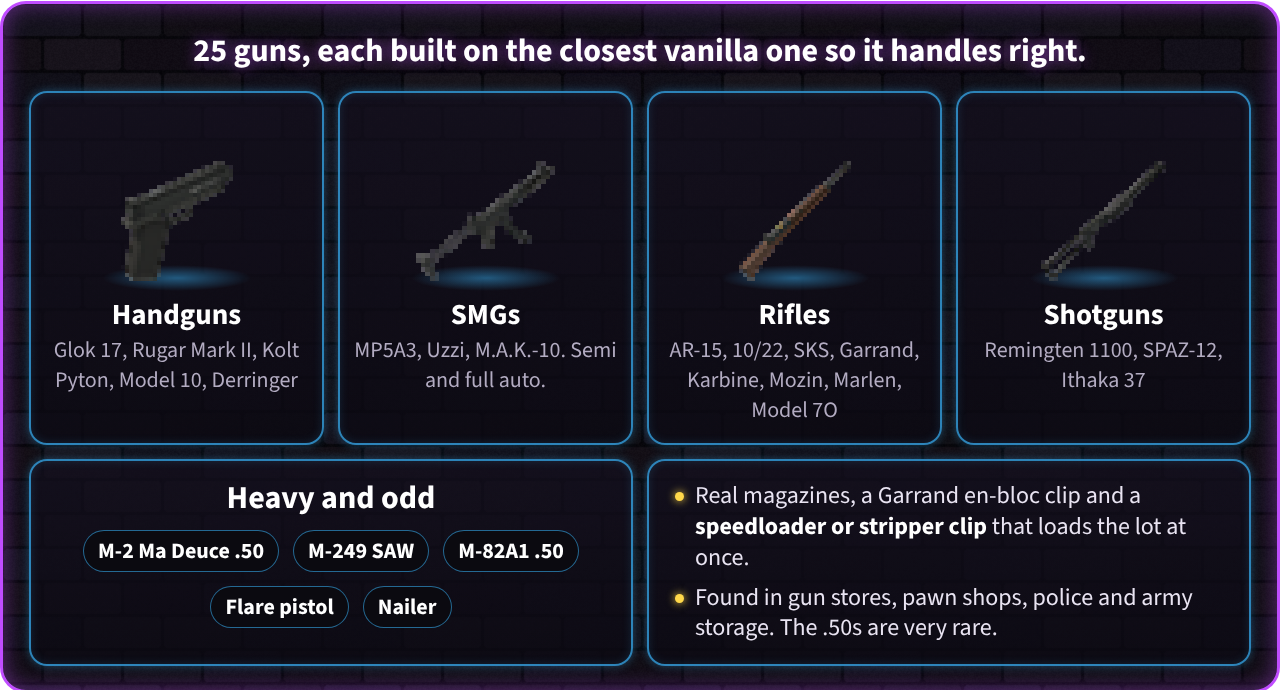
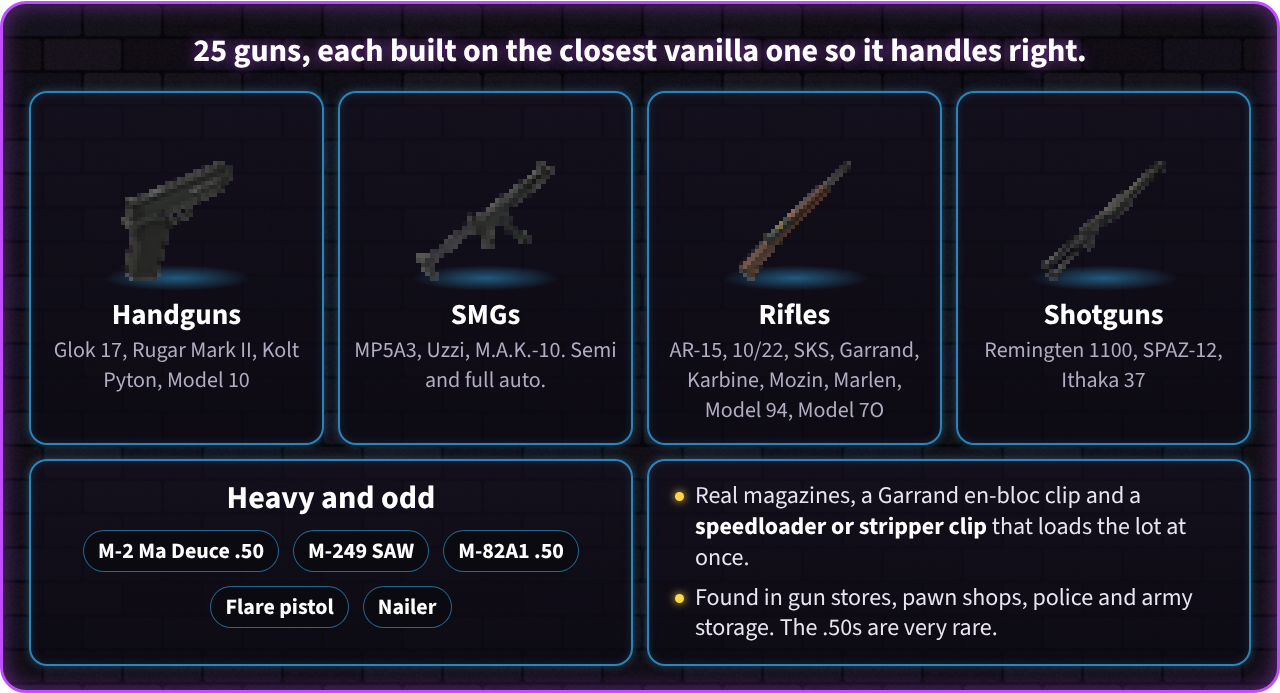
Armory page: new more.png panel, mg/reload/guns panels updated, description under 8000 bytes
Claude-Session: https://claude.ai/code/session_01VynD2Lr3XEXJcp5KXmu7gc

Changed region(s): [[0.0312, 0.9697, 0.9688, 1.0], [0.0312, 0.5152, 0.2188, 0.5758], [0.5312, 0.5758, 0.6875, 0.6061]]

diff --git a/Armory/page.html b/Armory/page.html
@@ -78,9 +78,9 @@
 <section class="shot panel" id="guns">
   <div class="ptitle">25 guns, each built on the closest vanilla one so it handles right.</div>
   <div class="grid cols-4">
-    <div class="card"><div class="art"><img src="sprites/glock17.png" class="px" style="height:120px"></div><div class="lbl">Handguns</div><div class="sub">Glok 17, Rugar Mark II, Kolt Pyton, Model 10, Derringer</div></div>
+    <div class="card"><div class="art"><img src="sprites/glock17.png" class="px" style="height:120px"></div><div class="lbl">Handguns</div><div class="sub">Glok 17, Rugar Mark II, Kolt Pyton, Model 10</div></div>
     <div class="card"><div class="art"><img src="sprites/mp5.png" class="px" style="height:120px"></div><div class="lbl">SMGs</div><div class="sub">MP5A3, Uzzi, M.A.K.-10. Semi and full auto.</div></div>
-    <div class="card"><div class="art"><img src="sprites/garand.png" class="px" style="height:120px"></div><div class="lbl">Rifles</div><div class="sub">AR-15, 10/22, SKS, Garrand, Karbine, Mozin, Marlen, Model 7O</div></div>
+    <div class="card"><div class="art"><img src="sprites/garand.png" class="px" style="height:120px"></div><div class="lbl">Rifles</div><div class="sub">AR-15, 10/22, SKS, Garrand, Karbine, Mozin, Marlen, Model 94, Model 7O</div></div>
     <div class="card"><div class="art"><img src="sprites/spas12.png" class="px" style="height:120px"></div><div class="lbl">Shotguns</div><div class="sub">Remingten 1100, SPAZ-12, Ithaka 37</div></div>
   </div>
   <div class="row2" style="margin-top:14px">
@@ -111,7 +111,7 @@
     </div></div>
     <div class="card list"><div class="pts">
       <p>Learn it at <b>Reloading 2</b>, or from the Handloader's Digest.</p>
-      <p>Make 12 gauge <b>flares</b> and <b>nail strips</b> too.</p>
+      <p>Make 12 gauge <b>signal flares</b> from spent hulls, shotshell primers and a road flare; <b>nail strips</b> from nails and glue or tape; link .50 BMG into <b>belts</b> for a .50 ammo can.</p>
     </div></div>
   </div>
 </section>
@@ -125,10 +125,30 @@
   <div class="ptitle">Set it up in a second-floor window and hold the street.</div>
   <div class="grid cols-3">
     <div class="card"><div class="art"><img src="sprites/m60.png" class="px" style="height:130px"></div><div class="lbl">M-6O Hog</div><div class="sub">belt-fed .308, too heavy to fire from your hands</div></div>
-    <div class="card"><div class="art"><img src="sprites/tripod.png" class="px" style="height:130px"></div><div class="lbl">Field Tripod (M122)</div><div class="sub">drop it, right-click, man the gun. It turns all the way round</div></div>
-    <div class="card"><div class="art"><img src="sprites/belt308.png" class="px" style="height:130px"></div><div class="lbl">Belts</div><div class="sub">link rounds, load them in an ammo can. Most links come back</div></div>
+    <div class="card"><div class="art"><img src="sprites/tripod.png" class="px" style="height:130px"></div><div class="lbl">Field Tripod (M122)</div><div class="sub">drop it where you want your nest, right-click it and man the gun. It turns all the way round; walk off to step away</div></div>
+    <div class="card"><div class="art"><img src="sprites/belt308.png" class="px" style="height:130px"></div><div class="lbl">Belts</div><div class="sub">link vanilla .308 rounds with belt links and load them into an ammo can like a magazine. Most links come back as you fire</div></div>
   </div>
   <div class="sub" style="text-align:center;margin-top:14px;font-size:26px">Found in army and police storage. Very loud: expect company.</div>
+</section>
+
+<section class="shot panel" id="more">
+  <div class="ptitle">How the BB guns play, and what you can change</div>
+  <div class="row2">
+    <div class="card list"><h4>BB guns</h4><div class="pts">
+      <p>They <b>sting more than they kill</b>. Hits make zombies stumble; a headshot up close can drop one.</p>
+      <p><b>Quiet:</b> zombies hear them only a few tiles away.</p>
+      <p>Good for birds, rabbits and other small game.</p>
+      <p>Open a tube of BBs, load magazines or fill shells (they come back empty to refill). Right-click a gun to change its <b>CO2 cartridge</b> or <b>battery</b>.</p>
+      <p>Guns jam more as they wear. Fix them with a <b>BB Gun Repair Kit</b>.</p>
+      <p>Found in toy shops, sports and gun stores, pawn shops and kids' bedrooms.</p>
+    </div></div>
+    <div class="card list"><h4>Sandbox options</h4><div class="pts">
+      <p><b>Guns:</b> damage, noise radius, loot rate, shots per CO2 cartridge and battery, and an optional "you'll shoot your eye out" ricochet (off by default).</p>
+      <p><b>Reloading:</b> brass recovery, dud rate, loot rates for gear, powder and primers, and "all reloading recipes known".</p>
+      <p><b>Machine guns:</b> fire without a mount (off by default), belt link recovery and loot rate.</p>
+      <p>Loot rates for the new calibres, flares and nail strips, and for the real guns.</p>
+    </div></div>
+  </div>
 </section>
 
 </body>
